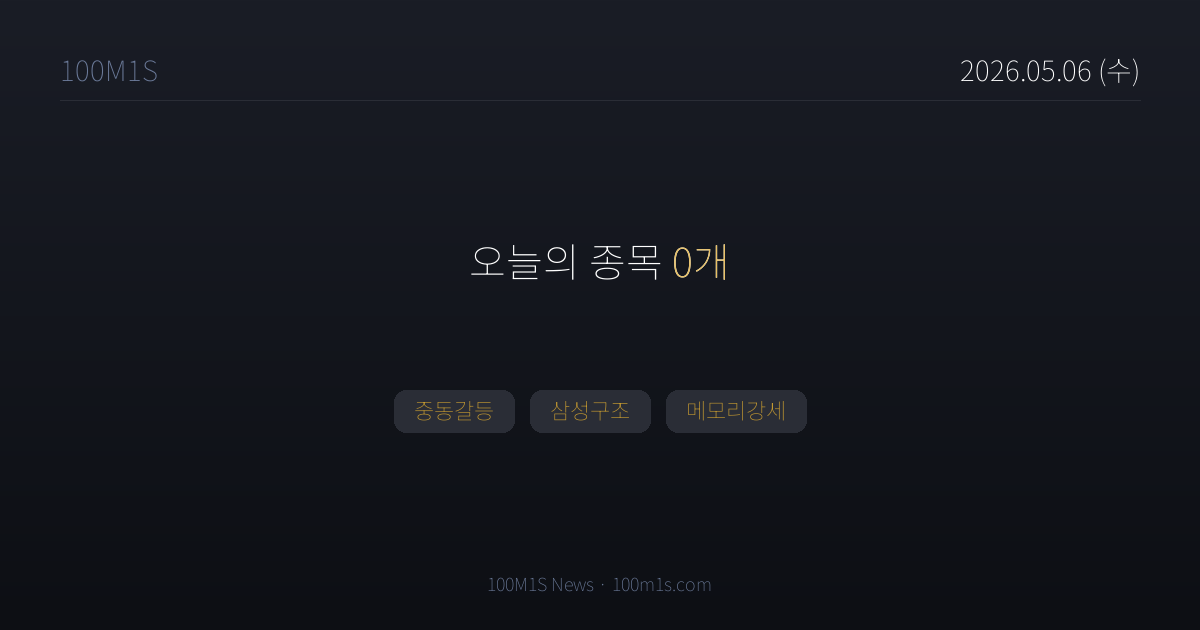
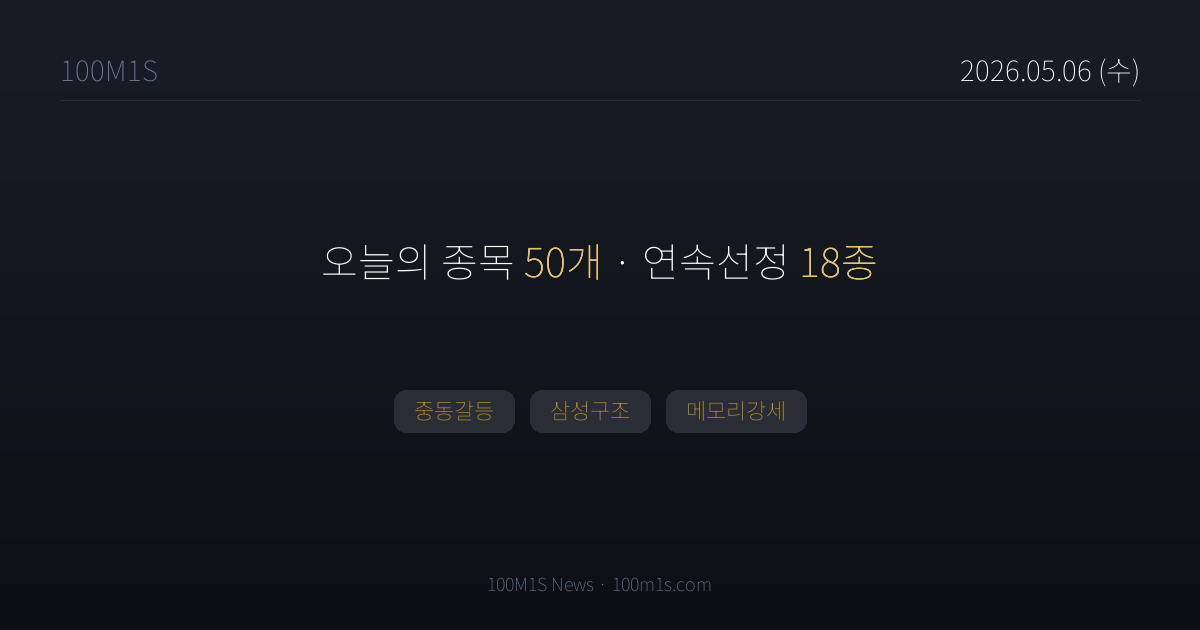
data(og): 5/6 OG HTML + PNG 재생성 — 종목 50개 (전수 backfill 후속)
generate_og.py 5/6 호출. og:title "0개" → "50개" 갱신. PNG 재생성.
이전 빌드(00:13) 미반영분.

Changed region(s): [[0.2775, 0.3921, 0.74, 0.4524]]

diff --git a/news/stock/2026-05-06.html b/news/stock/2026-05-06.html
@@ -3,7 +3,7 @@
 <head>
 <meta charset="UTF-8">
 <title>5월 6일 (수) 뉴스 — 100M1S</title>
-<meta property="og:title" content="5월 6일 (수) · 종목 0개">
+<meta property="og:title" content="5월 6일 (수) · 종목 50개">
 <meta property="og:description" content="중동갈등, 삼성구조, 메모리강세">
 <meta property="og:image" content="https://100m1s.com/og/news/stock/2026-05-06.png">
 <meta property="og:image:width" content="1200">
